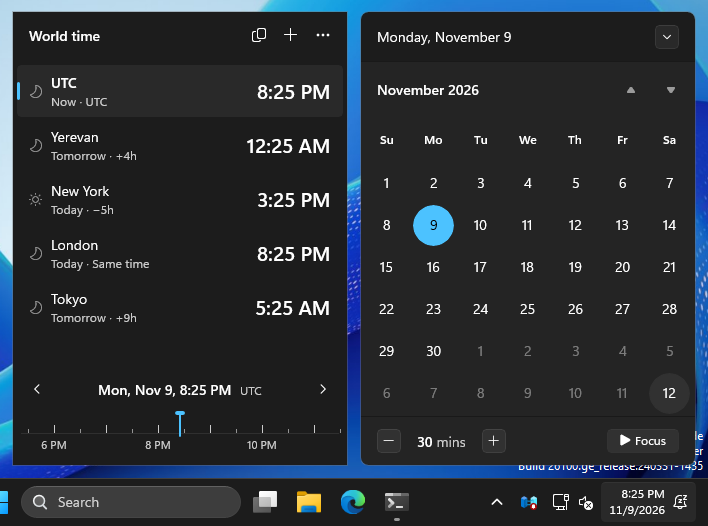
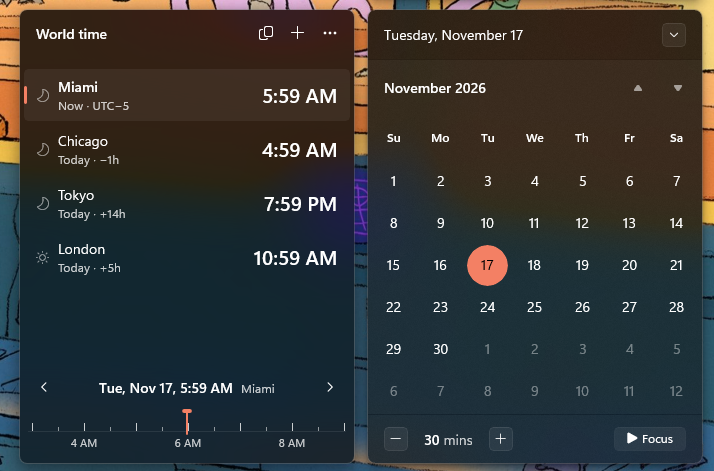
README: pictures from a Windows 11 PC, the ⋯ menu, what to do if the panel doesn't show up
The full view picture now comes from a real PC (rounded corners and
transparency; the build machine is a VM without a graphics card, where
Windows draws neither).

Claude-Session: https://claude.ai/code/session_017kbatio5q43q2qEAkKxb3c

diff --git a/README.md b/README.md
@@ -48,7 +48,7 @@ updates itself.
 | Copy with the date, copy all, reorder, set the main city, remove | Right-click a city |
 | See more cities in the compact view | ‹ › on the sides, swipe sideways, or tilt the wheel |
 | Add a city | **+** at the top of the full view |
-| Change the time step, clock format, startup, tray icon | **⋯** at the top of the full view |
+| Change the time step, clock format, startup, tray icon, updates | **⋯** at the top of the full view |
 
 Steps land on clean times: at 10:27 with 30 minute steps, back is 10:00 (−30m) and
 forward is 11:00 (+30m). The "main city" (accent bar) is the one the timeline and the
@@ -79,6 +79,8 @@ published with the release, installs it silently and restarts (for an all-users 
 after you approve the Windows prompt). Check by hand with
 **⋯** → Check for updates; turn the daily check off with **⋯** → Check for updates daily.
 
+![The ⋯ menu](docs/images/menu.png)
+
 **Uninstall:** Settings → Apps → Installed apps → World Time Flyout → Uninstall. It asks
 whether to delete your cities and settings too.
 
@@ -89,7 +91,7 @@ switches to it.
 ## Requirements
 
 - Windows 11, x64. Tested on 24H2 and 26H2, with the taskbar at the bottom of the screen.
-- The .NET runtime and the Windows App SDK are included in the zip.
+- The .NET runtime and the Windows App SDK are included in the installer and the zip.
 
 ## Privacy
 
@@ -99,6 +101,14 @@ but the app's version, and downloads an installer only when you click Install. T
 daily check off in the **⋯** menu. Your cities and preferences are saved in
 `%LOCALAPPDATA%\WorldTimeFlyout\settings.json`. A small log is kept next to it (more
 detail when started with `--diag`).
+
+## If the panel doesn't show up
+
+Right-click the tray icon → **Open log folder** and attach `log.txt` to an
+[issue](../../issues). It notes when the app starts, when it finds the calendar and
+anything unusual. For more detail, create an empty file named `diag.on` in that folder,
+then restart the app (tray icon → Exit, then start it again) and open the calendar a few
+times. Delete `diag.on` afterwards. The tray icon always opens the panel on its own.
 
 ## How it works
 
@@ -112,8 +122,9 @@ clicked, so the calendar stays open while you use it. Details:
 
 Builds run on GitHub Actions ([ci.yml](.github/workflows/ci.yml)) on Windows: unit tests,
 a NativeAOT self-contained publish, screenshots rendered by the app, an end-to-end test
-against the real taskbar calendar, measured size/memory/CPU, the installer and the zip
-with their SHA-256.
+against the real taskbar calendar (including with a maximized browser and the Claude
+desktop app in front, and with the calendar's process restarted by Windows), measured
+size/memory/CPU, the installer and the zip with their SHA-256.
 
 To publish a release: Actions → Build → Run workflow on `main`, enter the version (for
 example `0.3.0`). It builds, tests and publishes the release with the installer, the
